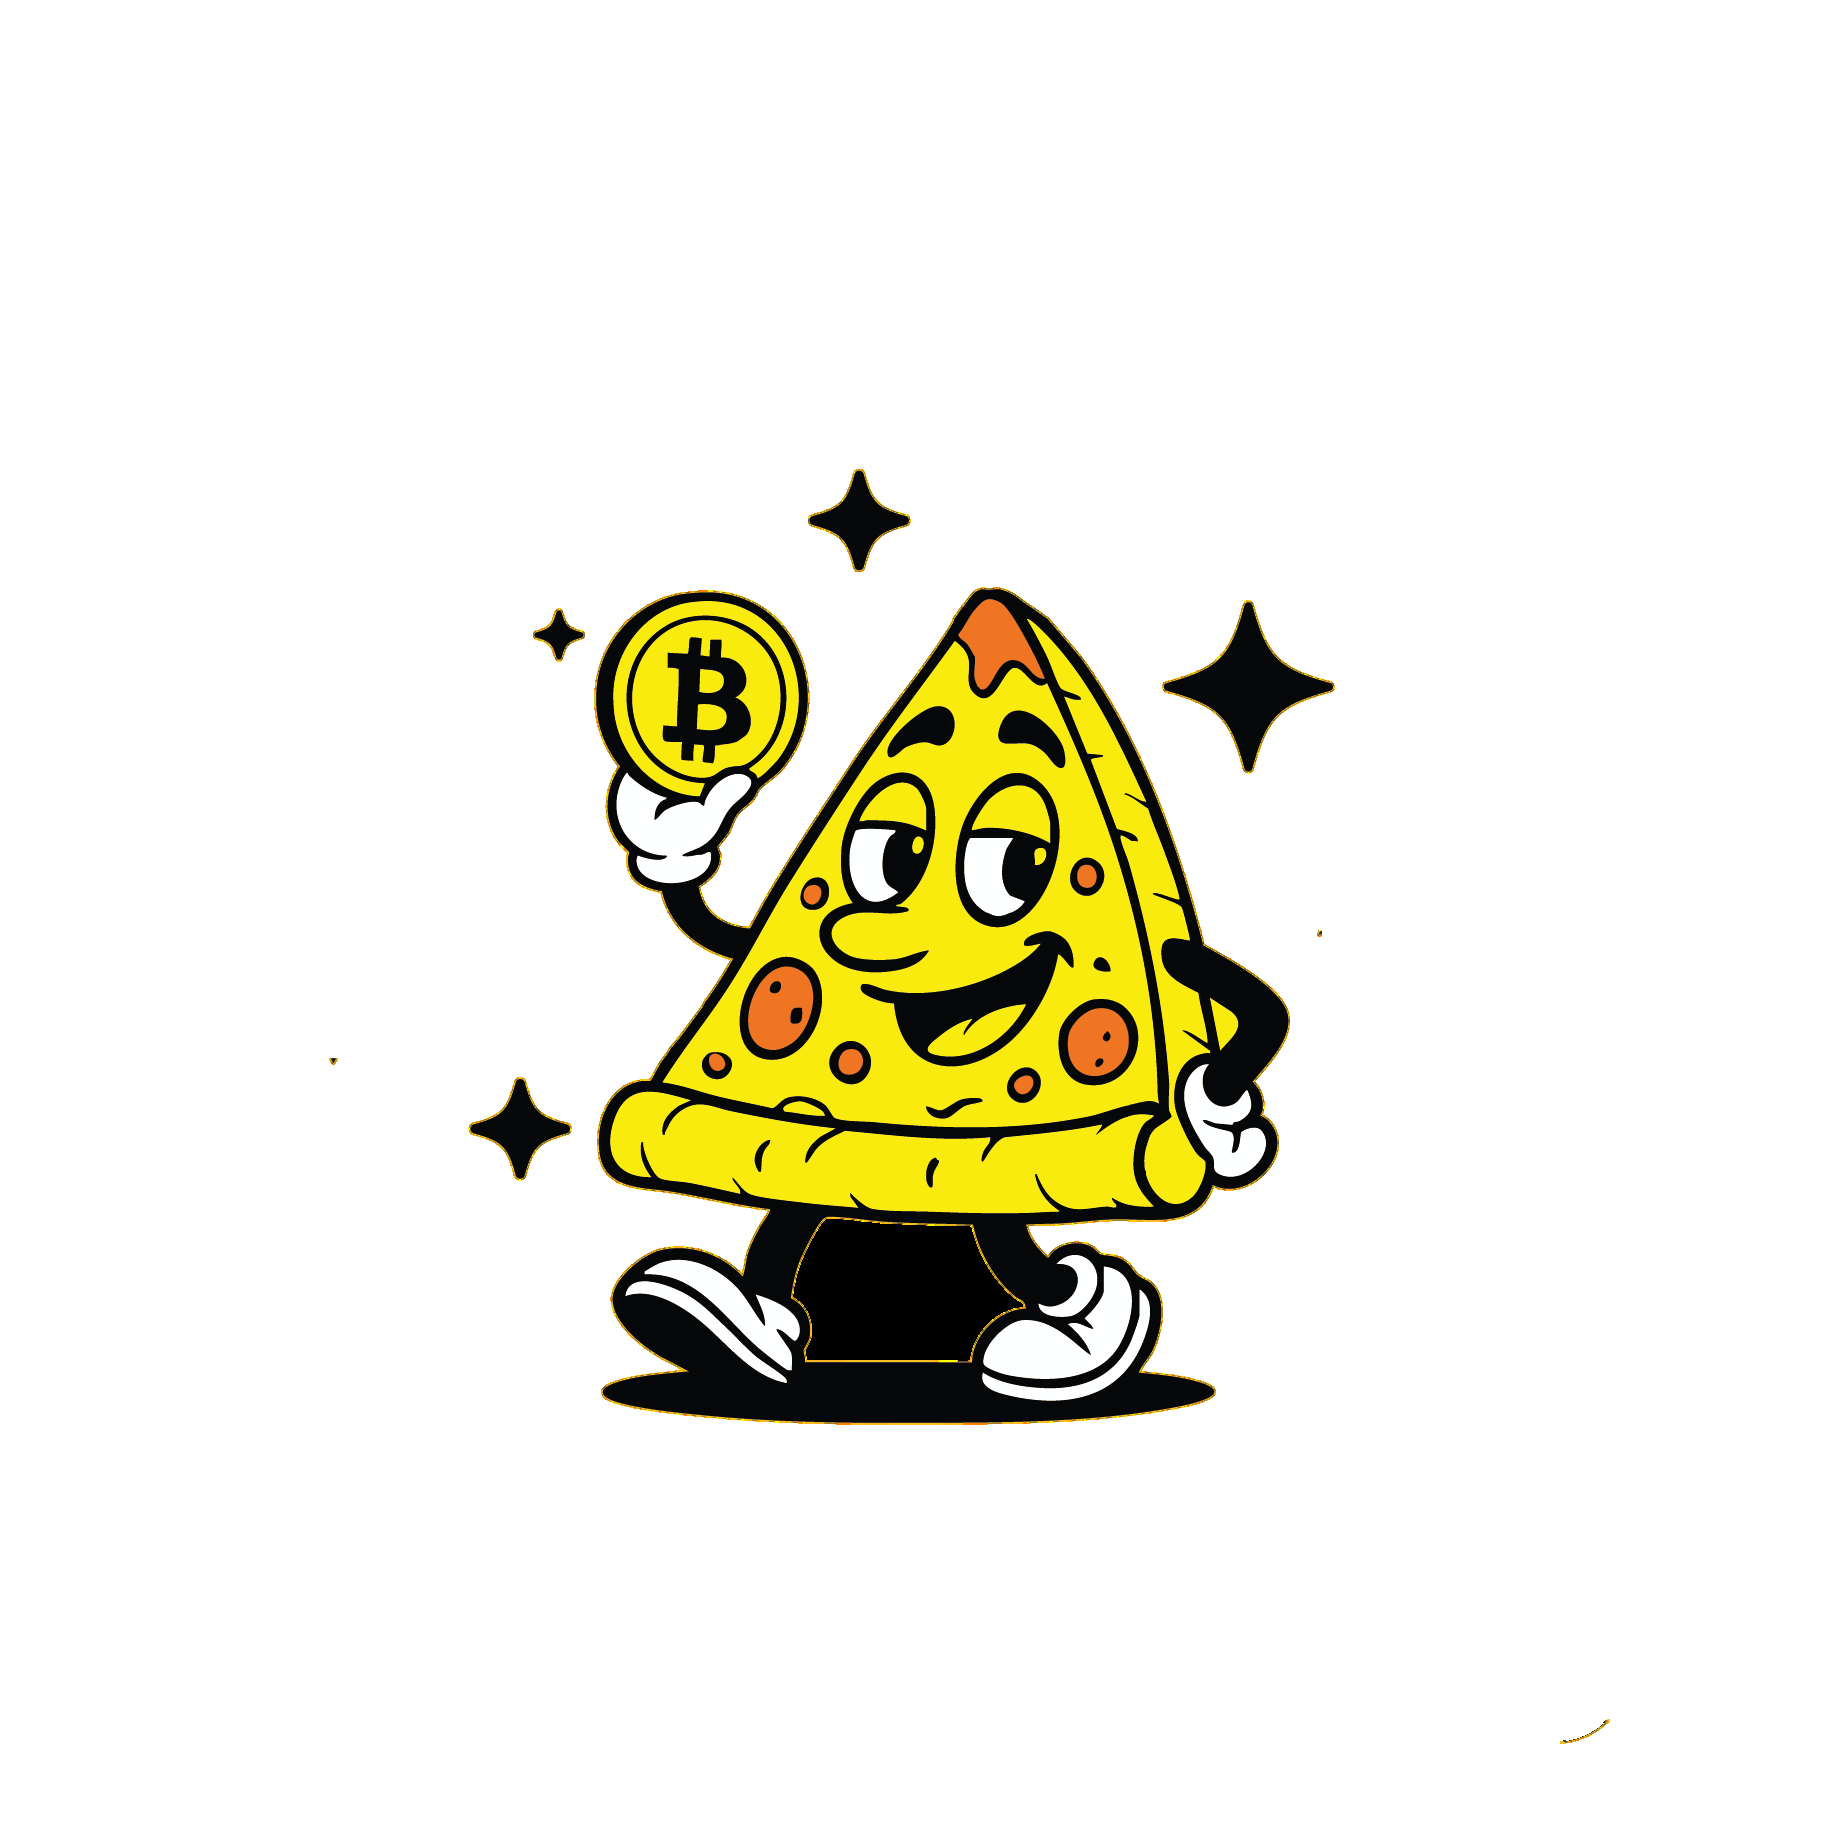
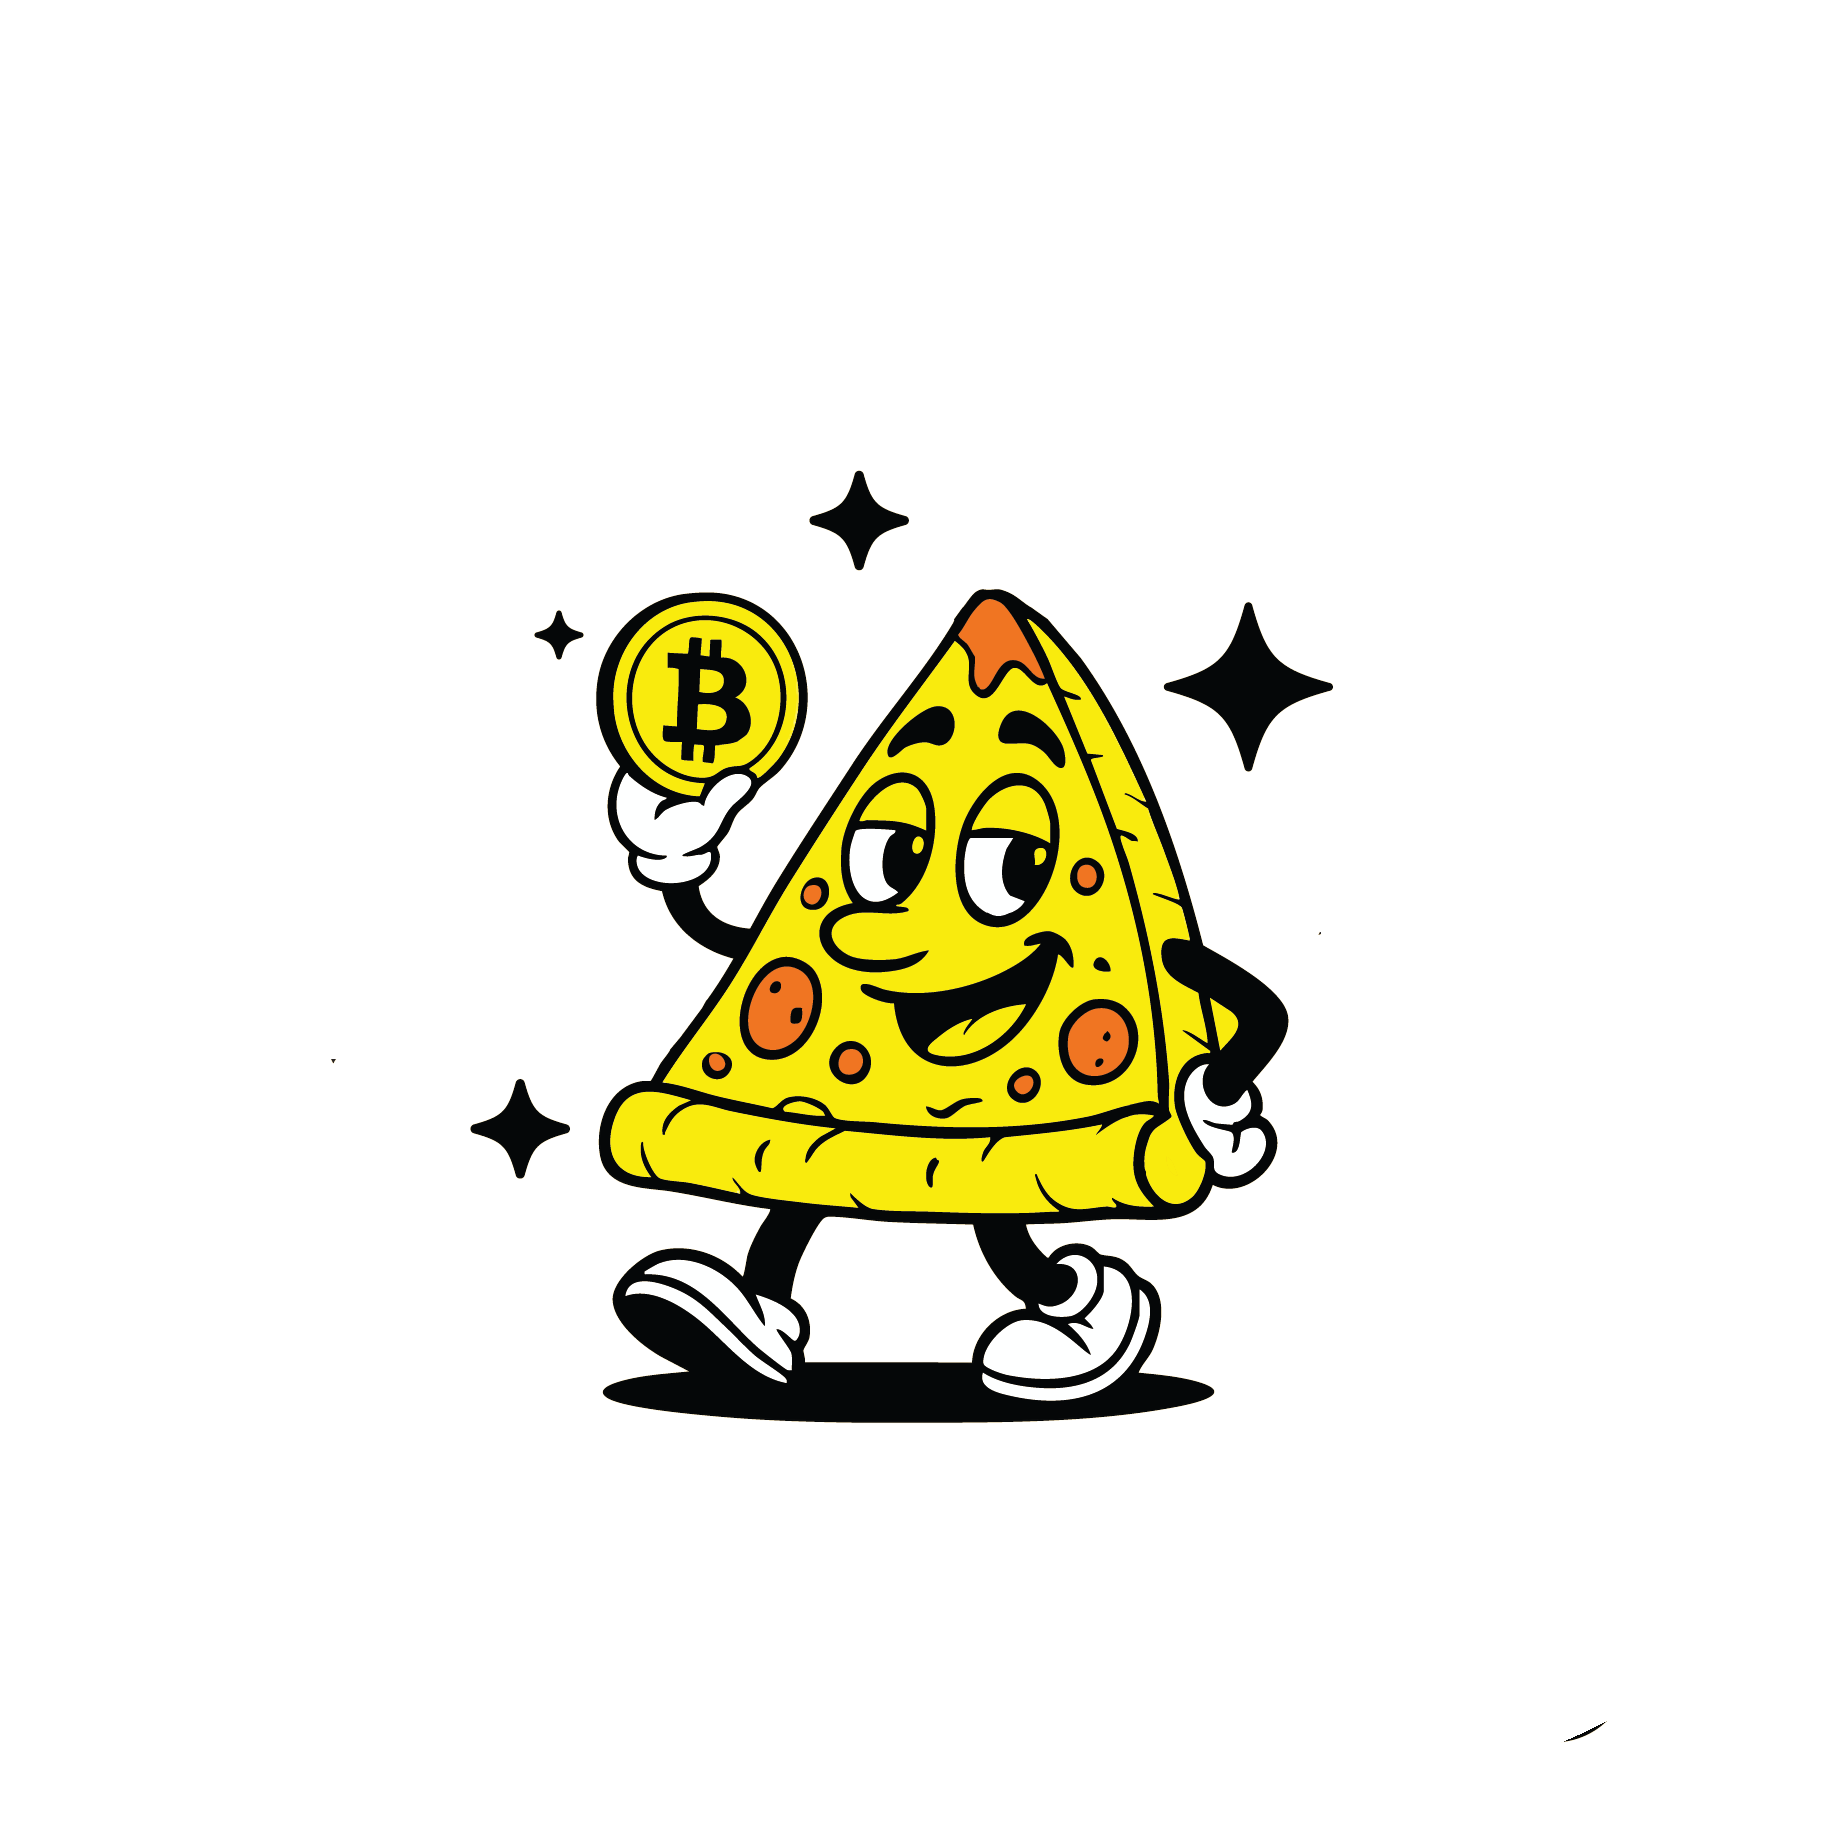
Fix mascot transparency using SVG mask; increase display size to 360px
Replaced flood-fill approach with the SVG's built-in grayscale mask as
alpha channel — correctly preserves enclosed white areas (gloves, shoes)
and handles the between-legs region. Bumped render width to 360px.

Changed region(s): [[0.4354, 0.653, 0.5597, 0.7463]]

diff --git a/src/components/QuizFlow.tsx b/src/components/QuizFlow.tsx
@@ -208,7 +208,7 @@ function IntroScreen({ onStart }: { onStart: () => void }) {
 
         {/* Mascot */}
         <div className="z-10 flex items-center justify-center">
-          <PizzaMascot width={240} className="drop-shadow-lg" />
+          <PizzaMascot width={360} className="drop-shadow-lg" />
         </div>
       </div>
 
